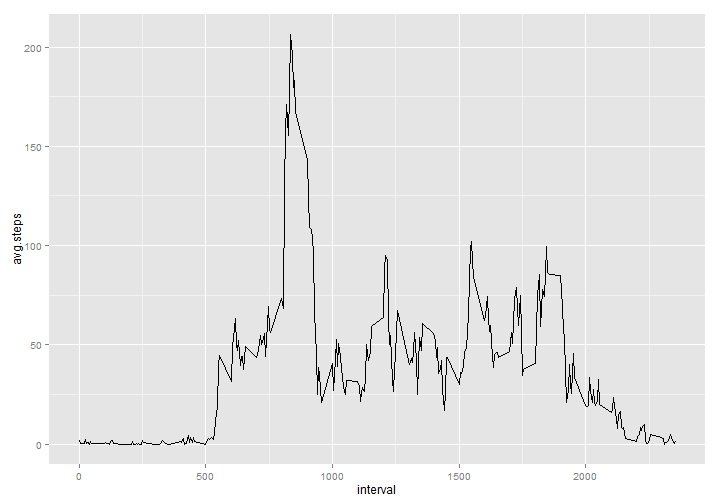
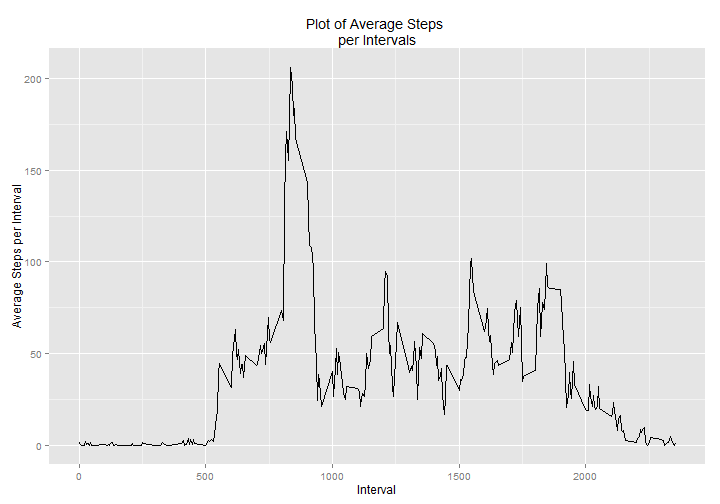
Commit 19: Final Touchups.

diff --git a/PA1_template.html b/PA1_template.html
@@ -320,18 +320,12 @@ column3 &lt;- ncol(avg.steps.per.interval)
 
 <p>The time series plot of the Average number of steps per day over all the 5-min intervals can be done in the following manner.</p>
 
-<pre><code class="r">g&lt;-ggplot (avg.steps.per.interval, aes(x=interval, y=avg.steps)) + geom_line()
-+labs(x=&quot;Interval&quot;, y=&quot;Average Steps per Interval&quot;, title=&quot;Plot of Average Steps 
+<pre><code class="r">g&lt;-ggplot (avg.steps.per.interval, aes(x=interval, y=avg.steps)) + geom_line() +labs(x=&quot;Interval&quot;, y=&quot;Average Steps per Interval&quot;, title=&quot;Plot of Average Steps 
 per Intervals&quot; )
+print (g)
 </code></pre>
 
-<pre><code>## Error in +labs(x = &quot;Interval&quot;, y = &quot;Average Steps per Interval&quot;, title = &quot;Plot of Average Steps \nper Intervals&quot;): invalid argument to unary operator
-</code></pre>
-
-<pre><code class="r">print (g)
-</code></pre>
-
[2 lines of base64/hex data omitted]
 
 <p>To find the Interval where the maximum number of steps occur, we can do the following.</p>
 
@@ -402,7 +396,7 @@ str(imputed.steps.per.day)
 
 <pre><code>## &#39;data.frame&#39;:    61 obs. of  2 variables:
 ##  $ date       : Date, format: &quot;2012-10-01&quot; &quot;2012-10-02&quot; ...
-##  $ total.steps: int  14679 126 11352 12116 13294 15420 11015 12118 12811 9900 ...
+##  $ total.steps: int  14394 126 11352 12116 13294 15420 11015 12011 12811 9900 ...
 </code></pre>
 
 <p>We can then create a barplot of the data.</p>
@@ -414,7 +408,7 @@ g&lt;-barplot(imputed.steps.per.day$total,main=&quot;Total Steps per Day&quot;, 
 Steps&quot;, names.arg=imputed.steps.per.day$date)
 </code></pre>
 
[2 lines of base64/hex data omitted]
 
 <pre><code class="r">print(g)
 </code></pre>
@@ -489,8 +483,8 @@ Steps&quot;, names.arg=imputed.steps.per.day$date)
 imputed.daily.median &lt;- median(imputed.steps.per.day$total)
 </code></pre>
 
-<p>The imputed daily mean steps is 11261.87 compared to the original mean steps of 9354.23. 
-The daily median steps is 11458 compared to the original median steps of 10395. .</p>
+<p>The imputed daily mean steps is 10924.72 compared to the original mean steps of 9354.23. 
+The daily median steps is 11162 compared to the original median steps of 10395. .</p>
 
 <p>Thus we can see that both the imputed mean and median are higher than before the data was imputed. This is to be expected since we are extrapolating and filling in the empty spaces with simulated, likely some are non-zero, data.</p>
 
@@ -509,7 +503,7 @@ str(imputed.steps.per.interval)
 <pre><code>## &#39;data.frame&#39;:    576 obs. of  3 variables:
 ##  $ interval : int  0 0 5 5 10 10 15 15 20 20 ...
 ##  $ day.type : Factor w/ 2 levels &quot;weekday&quot;,&quot;weekend&quot;: 1 2 1 2 1 2 1 2 1 2 ...
-##  $ avg.steps: num  10.978 25.188 2.356 0 0.556 ...
+##  $ avg.steps: num  2.02 0 1.11 1.12 1.62 ...
 </code></pre>
 
 <p>The above creates a dataframe from the imputed data and consist of 3 observations: &#39;interval&#39;, day.type&#39; and &#39;avg.steps&#39;.</p>
@@ -522,7 +516,7 @@ y=&quot;Average Steps per Interval&quot;, title=&quot;Average Steps per Interval
 print (g)
 </code></pre>
 
[2 lines of base64/hex data omitted]
 
 <p>From the graphs above, we can see that between the 1000 to 2000 5-minute intervals, the average steps are higher than on weekdays. For the rest of the intervals, there is no significant difference in pattern between the average steps over intervals between weekdays and weekends. </p>
 

diff --git a/PA1_template.md b/PA1_template.md
@@ -142,16 +142,8 @@ The time series plot of the Average number of steps per day over all the 5-min i
 
 
 ```r
-g<-ggplot (avg.steps.per.interval, aes(x=interval, y=avg.steps)) + geom_line()
-+labs(x="Interval", y="Average Steps per Interval", title="Plot of Average Steps 
+g<-ggplot (avg.steps.per.interval, aes(x=interval, y=avg.steps)) + geom_line() +labs(x="Interval", y="Average Steps per Interval", title="Plot of Average Steps 
 per Intervals" )
-```
-
-```
-## Error in +labs(x = "Interval", y = "Average Steps per Interval", title = "Plot of Average Steps \nper Intervals"): invalid argument to unary operator
-```
-
-```r
 print (g)
 ```
 
@@ -237,7 +229,7 @@ str(imputed.steps.per.day)
 ```
 ## 'data.frame':	61 obs. of  2 variables:
 ##  $ date       : Date, format: "2012-10-01" "2012-10-02" ...
-##  $ total.steps: int  14679 126 11352 12116 13294 15420 11015 12118 12811 9900 ...
+##  $ total.steps: int  14394 126 11352 12116 13294 15420 11015 12011 12811 9900 ...
 ```
 
 We can then create a barplot of the data.
@@ -330,8 +322,8 @@ imputed.daily.mean <- mean(imputed.steps.per.day$total)
 imputed.daily.median <- median(imputed.steps.per.day$total)
 ```
 
-The imputed daily mean steps is 11261.87 compared to the original mean steps of 9354.23. 
-The daily median steps is 11458 compared to the original median steps of 10395. .
+The imputed daily mean steps is 10924.72 compared to the original mean steps of 9354.23. 
+The daily median steps is 11162 compared to the original median steps of 10395. .
 
 Thus we can see that both the imputed mean and median are higher than before the data was imputed. This is to be expected since we are extrapolating and filling in the empty spaces with simulated, likely some are non-zero, data.
 
@@ -354,7 +346,7 @@ str(imputed.steps.per.interval)
 ## 'data.frame':	576 obs. of  3 variables:
 ##  $ interval : int  0 0 5 5 10 10 15 15 20 20 ...
 ##  $ day.type : Factor w/ 2 levels "weekday","weekend": 1 2 1 2 1 2 1 2 1 2 ...
-##  $ avg.steps: num  10.978 25.188 2.356 0 0.556 ...
+##  $ avg.steps: num  2.02 0 1.11 1.12 1.62 ...
 ```
 
 The above creates a dataframe from the imputed data and consist of 3 observations: 'interval', day.type' and 'avg.steps'.
